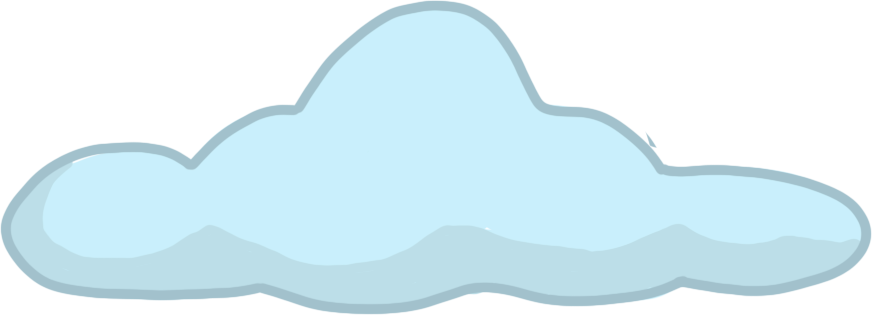
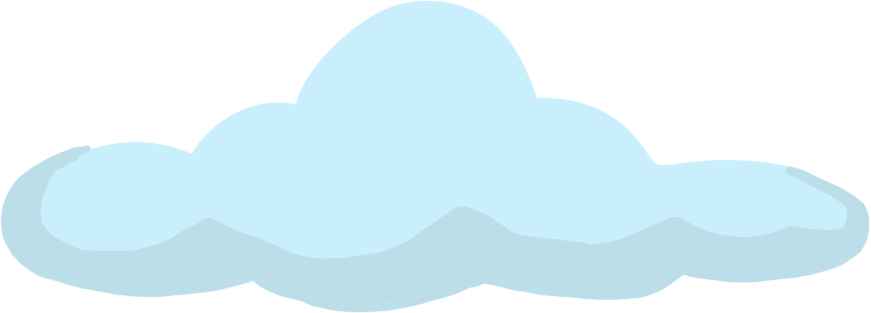
se agregarn nubes

Changed region(s): [[0.0, 0.0, 1.0, 1.0]]

diff --git a/src/scenes/Nivel1.js b/src/scenes/Nivel1.js
@@ -34,6 +34,13 @@ export default class Nivel1 extends Phaser.Scene {
       "tilesPlataforma"
     );
 
+    const capaNubes = map.addTilesetImage("nubes", "nube");
+    const nibesLayer = map
+      .createLayer("clouds", capaNubes, 0, 0)
+      .setOrigin(0, 1)
+      .setScrollFactor(0.25);
+
+
     const capaMontañas = map.addTilesetImage("montañas", "montañas");
     const montañasLayer = map
       .createLayer("mountains", capaMontañas, 0, 0)
